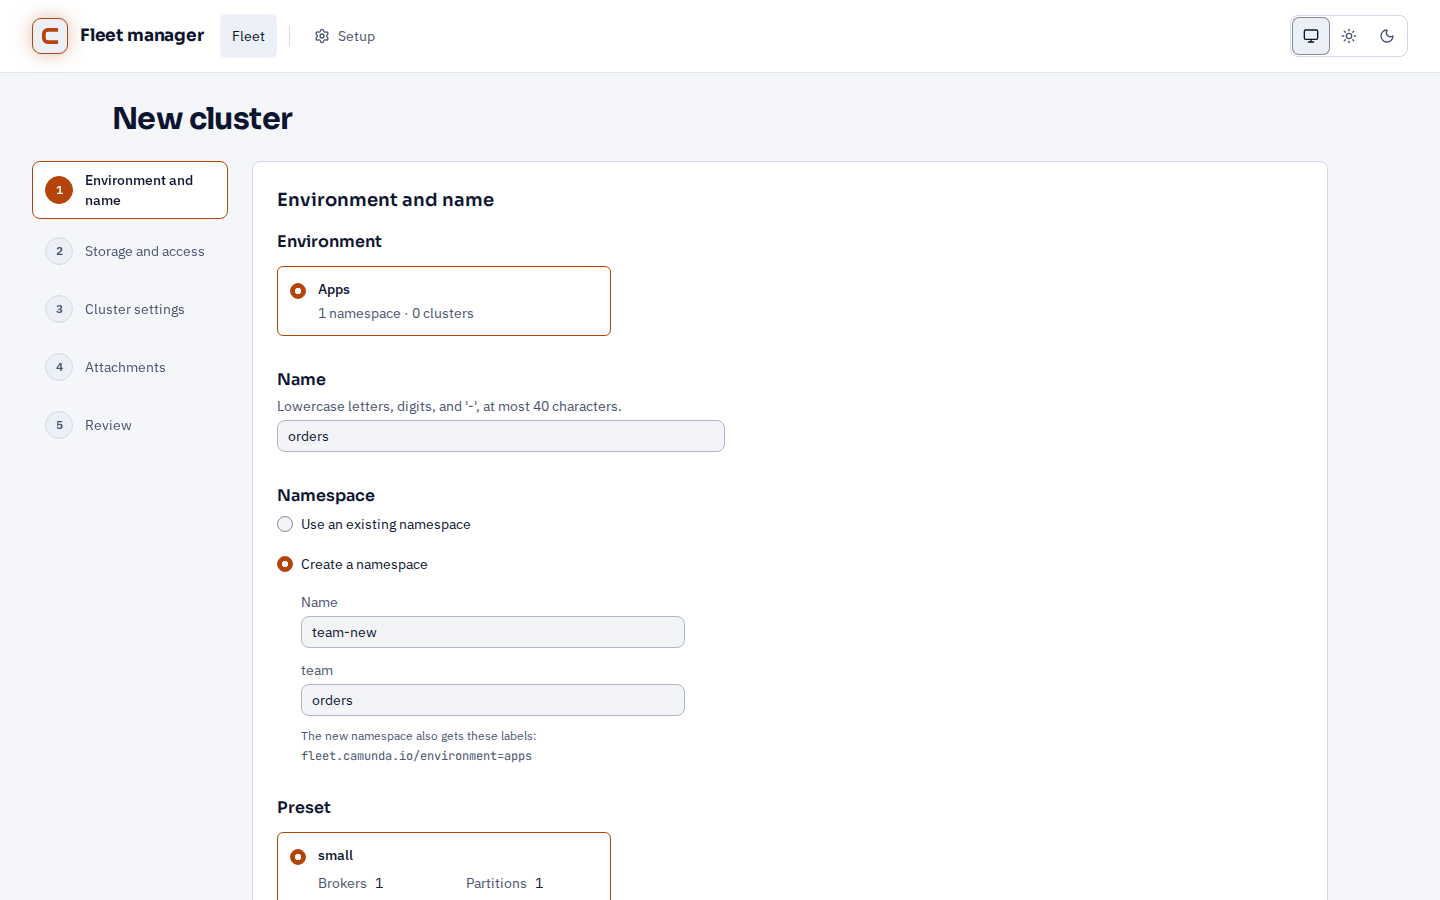
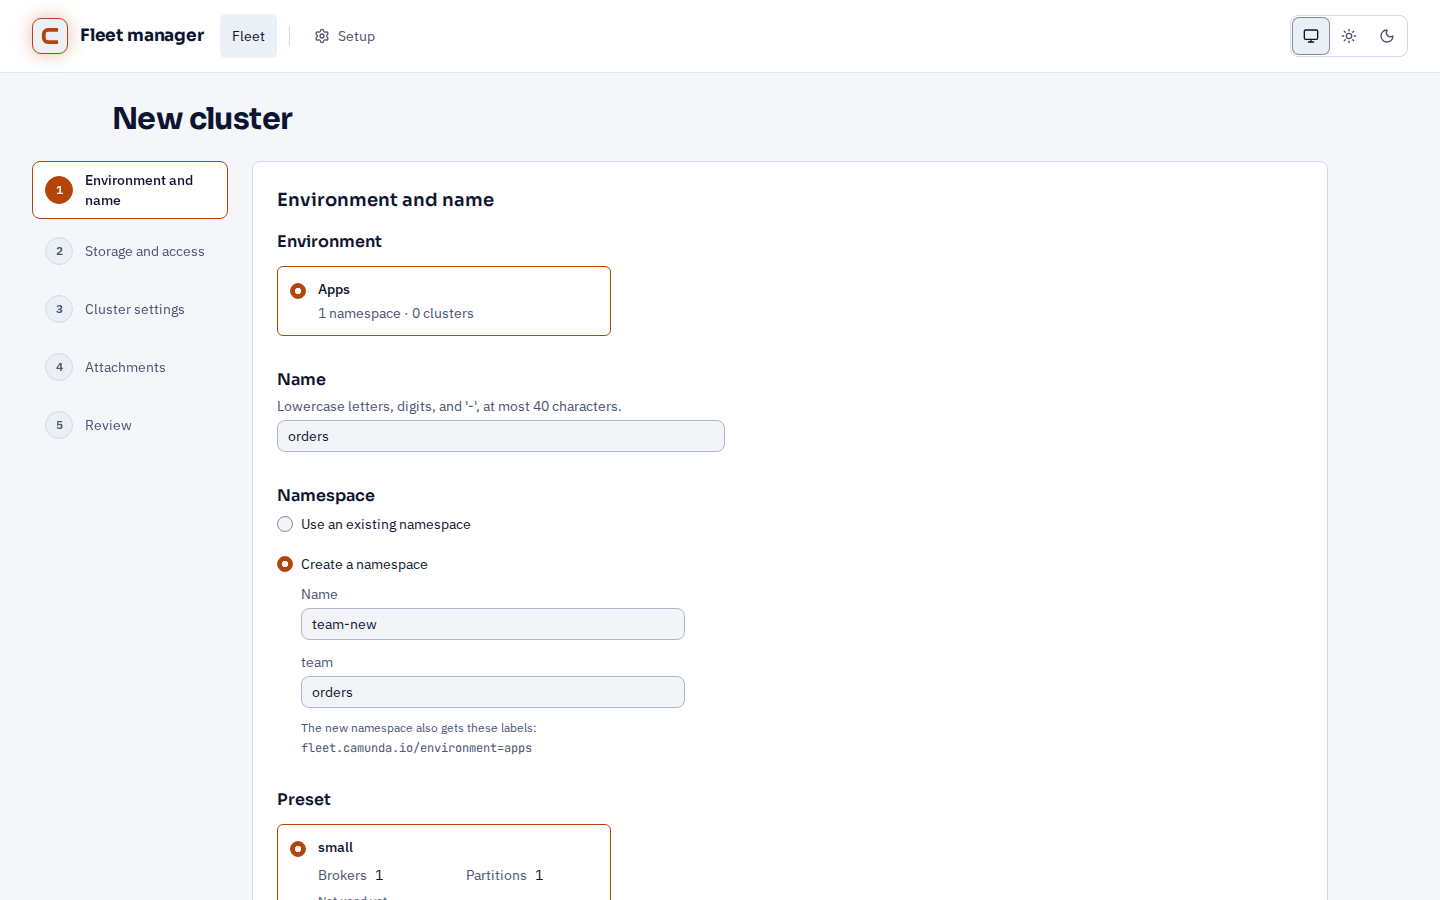
fix(fleet-manager): show the namespace select without a lone radio
When the environment does not allow a new namespace, the picker showed
one radio, "Use an existing namespace", and indented the select under
it. The select then started 24 px to the right of the other fields of
the step. Now the picker shows no radio in that case. The select, or
the text that no namespace exists yet, sits directly under the legend,
with the width of the other fields, and the legend gives its name.

When a new namespace is allowed, both radios stay. A radio and its own
fields are now closer together than the two choices.

The guide images of both basics steps are taken again.

Claude-Session: https://claude.ai/code/session_01Ko2P6Zvyd4TpLZaqvh8usj

diff --git a/fleet-manager/src/components/fleet/namespace-picker.tsx b/fleet-manager/src/components/fleet/namespace-picker.tsx
@@ -138,98 +138,120 @@ export function NamespacePicker({
       : undefined;
   const touch = (path: string) => setTouched(new Set(touched).add(path));
 
+  const existingControl =
+    own.length === 0 ? (
+      <p className="text-sm text-muted">{`No namespace is in ${environment?.displayName ?? environment?.name ?? "the cluster"} yet.`}</p>
+    ) : (
+      <NativeSelect
+        aria-labelledby={`${id}-legend`}
+        value={activeExisting}
+        onChange={(e) => {
+          setExisting(e.target.value);
+        }}
+      >
+        <NativeSelectOption value="">Pick a namespace</NativeSelectOption>
+        {own.map((ns) => (
+          <NativeSelectOption key={ns.name} value={ns.name}>
+            {ns.name}
+          </NativeSelectOption>
+        ))}
+      </NativeSelect>
+    );
+
   return (
     <fieldset className="flex min-w-0 flex-col gap-4">
-      <legend className="mb-1 font-heading text-base font-semibold">
+      <legend
+        id={`${id}-legend`}
+        className="mb-1 font-heading text-base font-semibold"
+      >
         Namespace
       </legend>
-      <label className="flex min-h-6 items-center gap-2 text-sm">
-        <Radio
-          name={`${id}-mode`}
-          checked={activeMode === "existing"}
-          onChange={() => {
-            setMode("existing");
-          }}
-        />
-        Use an existing namespace
-      </label>
-      {activeMode === "existing" && (
-        <div className="flex max-w-md flex-col gap-1 pl-6">
-          <label htmlFor={`${id}-existing`} className="sr-only">
-            Namespace
-          </label>
-          {own.length === 0 ? (
-            <p className="text-sm text-muted">{`No namespace is in ${environment?.displayName ?? environment?.name ?? "the cluster"} yet.`}</p>
-          ) : (
-            <NativeSelect
-              id={`${id}-existing`}
-              value={activeExisting}
-              onChange={(e) => {
-                setExisting(e.target.value);
-              }}
-            >
-              <NativeSelectOption value="">Pick a namespace</NativeSelectOption>
-              {own.map((ns) => (
-                <NativeSelectOption key={ns.name} value={ns.name}>
-                  {ns.name}
-                </NativeSelectOption>
-              ))}
-            </NativeSelect>
-          )}
-        </div>
-      )}
-      {canCreate && (
-        <label className="flex min-h-6 items-center gap-2 text-sm">
-          <Radio
-            name={`${id}-mode`}
-            checked={activeMode === "new"}
-            onChange={() => {
-              setMode("new");
-            }}
-          />
-          Create a namespace
-        </label>
-      )}
-      {activeMode === "new" && (
-        <div className="flex flex-col gap-3 pl-6">
-          <Field
-            id={`${id}-name`}
-            label="Name"
-            value={name}
-            error={errorAt("name")}
-            onValue={(v) => {
-              setName(v);
-              touch("name");
-            }}
-          />
-          {askedKeys.map((key) => (
-            <Field
-              key={key}
-              id={`${id}-label-${key}`}
-              label={key}
-              value={values[key] ?? ""}
-              error={errorAt(`labels.${key}`)}
-              onValue={(v) => {
-                const next = { ...values, [key]: v };
-                setValues(next);
-                touch(`labels.${key}`);
-              }}
+      {!canCreate ? (
+        <div className="max-w-md">{existingControl}</div>
+      ) : (
+        <>
+          <div className="flex flex-col gap-2">
+            <ModeRadio
+              name={`${id}-mode`}
+              label="Use an existing namespace"
+              checked={activeMode === "existing"}
+              onPick={() => setMode("existing")}
             />
-          ))}
-          <div className="text-xs text-muted">
-            <p className="mb-1">The new namespace also gets these labels:</p>
-            <ul className="font-mono">
-              {Object.entries({
-                ...creation?.labels,
-                [ENVIRONMENT_LABEL]: environment!.name,
-              }).map(([k, v]) => (
-                <li key={k}>{`${k}=${v}`}</li>
-              ))}
-            </ul>
+            {activeMode === "existing" && (
+              <div className="max-w-md pl-6">{existingControl}</div>
+            )}
           </div>
-        </div>
+          <div className="flex flex-col gap-2">
+            <ModeRadio
+              name={`${id}-mode`}
+              label="Create a namespace"
+              checked={activeMode === "new"}
+              onPick={() => setMode("new")}
+            />
+            {activeMode === "new" && (
+              <div className="flex flex-col gap-3 pl-6">
+                <Field
+                  id={`${id}-name`}
+                  label="Name"
+                  value={name}
+                  error={errorAt("name")}
+                  onValue={(v) => {
+                    setName(v);
+                    touch("name");
+                  }}
+                />
+                {askedKeys.map((key) => (
+                  <Field
+                    key={key}
+                    id={`${id}-label-${key}`}
+                    label={key}
+                    value={values[key] ?? ""}
+                    error={errorAt(`labels.${key}`)}
+                    onValue={(v) => {
+                      const next = { ...values, [key]: v };
+                      setValues(next);
+                      touch(`labels.${key}`);
+                    }}
+                  />
+                ))}
+                <div className="text-xs text-muted">
+                  <p className="mb-1">
+                    The new namespace also gets these labels:
+                  </p>
+                  <ul className="font-mono">
+                    {Object.entries({
+                      ...creation?.labels,
+                      [ENVIRONMENT_LABEL]: environment!.name,
+                    }).map(([k, v]) => (
+                      <li key={k}>{`${k}=${v}`}</li>
+                    ))}
+                  </ul>
+                </div>
+              </div>
+            )}
+          </div>
+        </>
       )}
     </fieldset>
+  );
+}
+
+function ModeRadio({
+  name,
+  label,
+  checked,
+  onPick,
+}: {
+  name: string;
+  label: string;
+  checked: boolean;
+  onPick: () => void;
+}) {
+  return (
+    <label className="flex min-h-6 items-center gap-2 text-sm">
+      <Radio name={name} checked={checked} onChange={onPick} />
+      {label}
+    </label>
   );
 }
 

diff --git a/fleet-manager/src/components/fleet/namespace-picker.test.tsx b/fleet-manager/src/components/fleet/namespace-picker.test.tsx
@@ -1,5 +1,5 @@
 // @vitest-environment jsdom
-import { cleanup, render, screen } from "@testing-library/react";
+import { cleanup, render, screen, within } from "@testing-library/react";
 import userEvent from "@testing-library/user-event";
 import { afterEach, describe, expect, it, vi } from "vitest";
 import { ENVIRONMENT_LABEL } from "@/lib/labels";
@@ -227,5 +227,56 @@ describe("NamespacePicker", () => {
     expect(
       screen.queryByRole("radio", { name: "Create a namespace" }),
     ).toBeNull();
+  });
+
+  it("shows the namespace select without a choice when only an existing namespace is possible", async () => {
+    const onChange = vi.fn();
+    render(
+      <NamespacePicker
+        namespaces={namespaces}
+        environment={{ name: "prod" }}
+        onChange={onChange}
+      />,
+    );
+    expect(screen.queryAllByRole("radio")).toEqual([]);
+    const group = screen.getByRole("group", { name: "Namespace" });
+    await userEvent.selectOptions(
+      within(group).getByRole("combobox", { name: "Namespace" }),
+      "team-payments",
+    );
+    expect(onChange).toHaveBeenLastCalledWith(
+      { kind: "existing", name: "team-payments" },
+      [],
+    );
+  });
+
+  it("says that the environment has no namespace yet when it cannot create one", () => {
+    render(
+      <NamespacePicker
+        namespaces={namespaces}
+        environment={{ name: "staging", displayName: "Staging" }}
+      />,
+    );
+    expect(screen.queryAllByRole("radio")).toEqual([]);
+    expect(screen.queryByRole("combobox")).toBeNull();
+    expect(
+      within(screen.getByRole("group", { name: "Namespace" })).getByText(
+        "No namespace is in Staging yet.",
+      ),
+    ).toBeTruthy();
+  });
+
+  it("offers both choices when the environment allows a new namespace", () => {
+    render(
+      <NamespacePicker namespaces={namespaces} environment={environment} />,
+    );
+    const existing = screen.getByRole<HTMLInputElement>("radio", {
+      name: "Use an existing namespace",
+    });
+    expect(existing.checked).toBe(true);
+    expect(
+      screen.getByRole("radio", { name: "Create a namespace" }),
+    ).toBeTruthy();
+    expect(screen.getByRole("combobox", { name: "Namespace" })).toBeTruthy();
   });
 });

diff --git a/fleet-manager/e2e/journeys/create.ts b/fleet-manager/e2e/journeys/create.ts
@@ -91,7 +91,6 @@ export async function fillCreateForm(page: Page, name: string): Promise<void> {
   await step("Environment and name");
   await page.getByRole("radio", { name: /^Fleet harness/ }).check();
   await page.getByRole("textbox", { name: "Name" }).first().fill(name);
-  await page.getByRole("radio", { name: "Use an existing namespace" }).check();
   await page
     .getByRole("combobox", { name: "Namespace" })
     .selectOption(HARNESS_NAMESPACE);

diff --git a/fleet-manager/src/components/fleet/namespace-picker.stories.tsx b/fleet-manager/src/components/fleet/namespace-picker.stories.tsx
@@ -45,3 +45,11 @@ export const CreationNotAllowed: Story = {
   name: "Creation not allowed",
   args: { environment: { name: "prod", displayName: "Production" } },
 };
+
+export const NoNamespaceToPick: Story = {
+  name: "No namespace to pick",
+  args: {
+    namespaces: [],
+    environment: { name: "prod", displayName: "Production" },
+  },
+};
